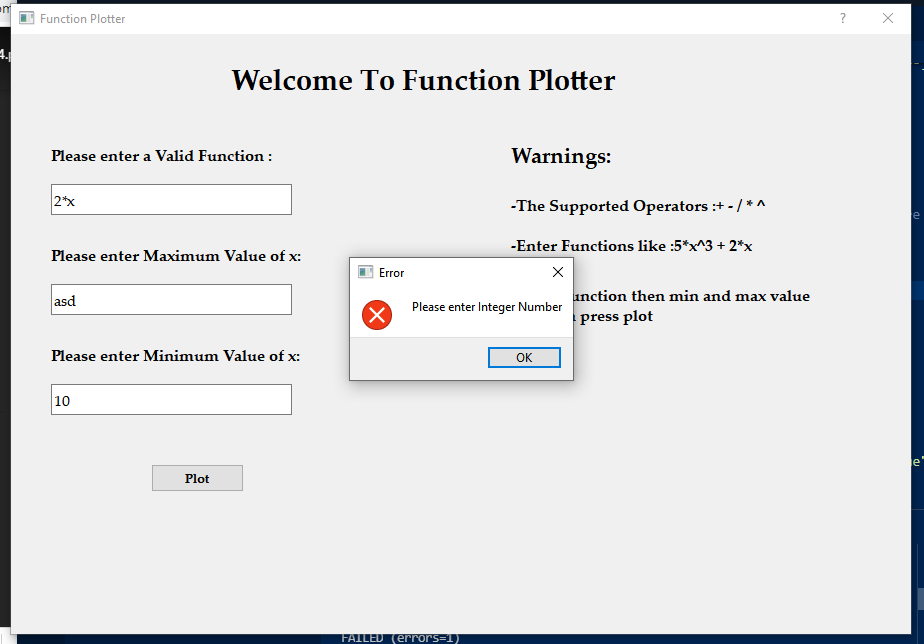
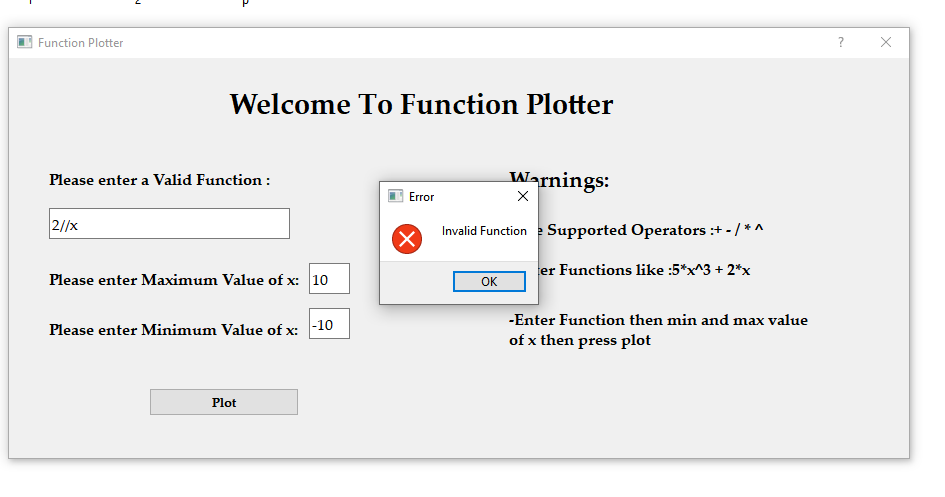
Comparing two negative values is updated

diff --git a/ValidationClass.py b/ValidationClass.py
@@ -29,6 +29,6 @@ class Validation:
     
     #validate whether the minValue is greater than maxValue or not 
     def InequalityValidation(maxValue,minValue):
-        if minValue>=maxValue:
+        
+        if float(minValue)>float(maxValue):
             raise ValueError("Max Value Must be Greater Than MinValue")
-   
